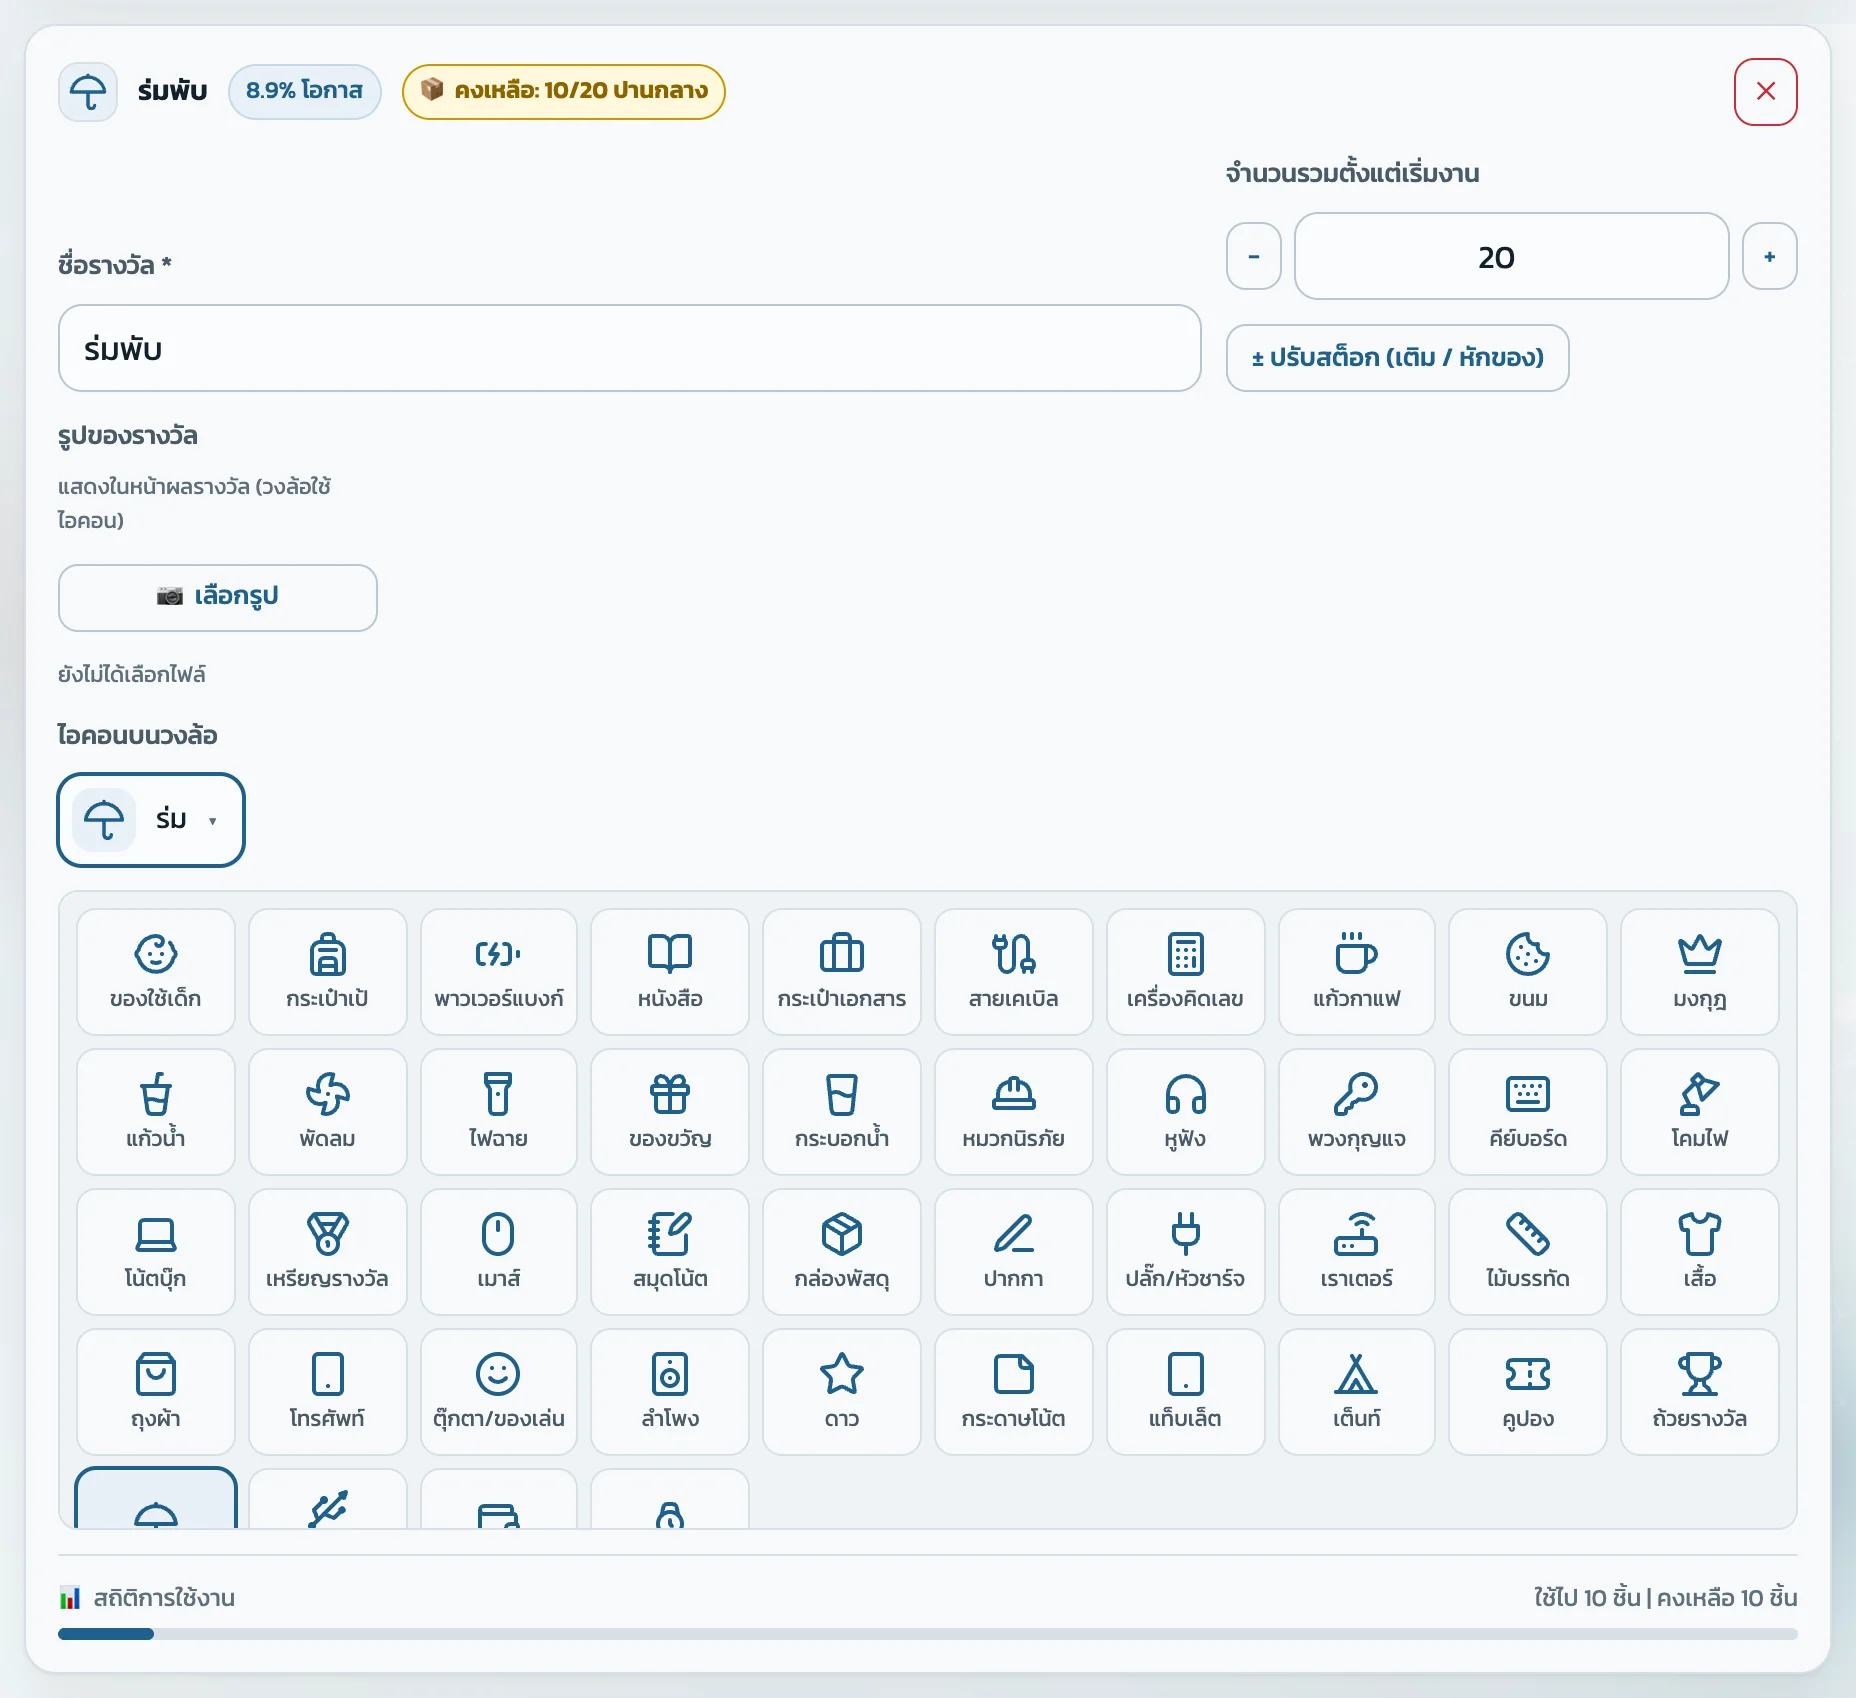
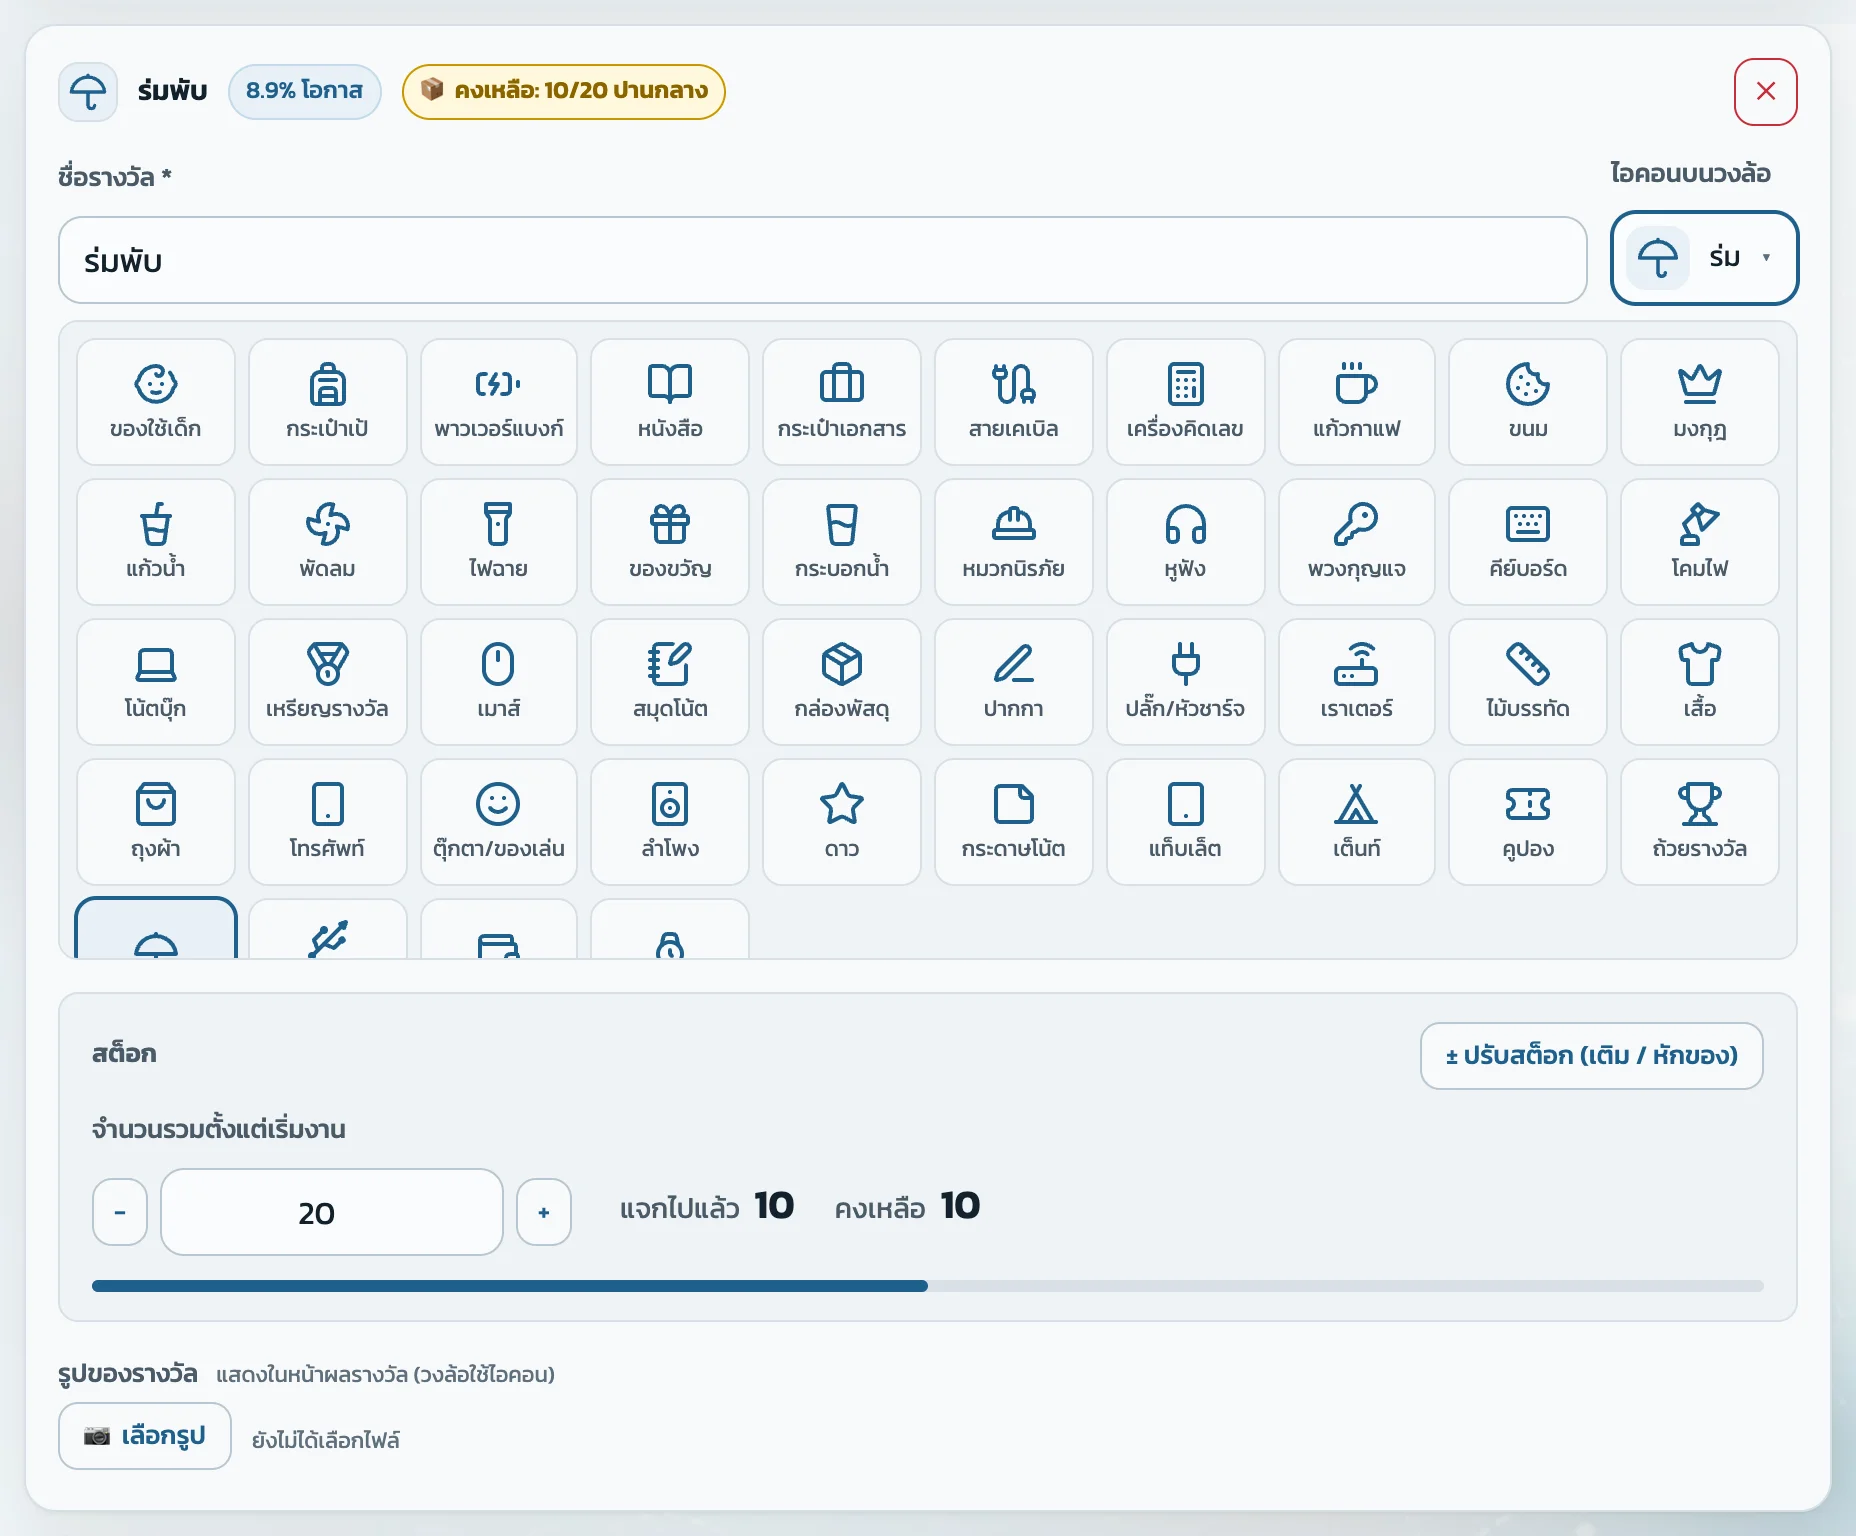
Admin prize card: group fields into basics, stock box and photo row
Name and icon share one row; quantity, given-out/left figures, the usage bar
and the stock-adjust panel live in one stock box; the photo controls sit on
one line. The usage bar now shows this prize's own share instead of a share
of all prizes. Guide screenshots refreshed.

diff --git a/admin.html b/admin.html
@@ -311,11 +311,30 @@
 
     #add-prize-btn.at-cap { opacity: 0.5; }
 
-    .stock-adjust-btn { margin-top: 8px; align-self: flex-start; }
-    .stock-adjust {
-      margin-top: 12px; padding: 14px; border-radius: var(--radius-sm);
+    /* Prize card: basics row (name + icon), stock box, photo row */
+    .prize-basics {
+      display: grid; grid-template-columns: minmax(0, 1fr) auto; gap: 12px; align-items: end;
+    }
+    .prize-basics .icon-select-btn { min-height: 46px; }
+    .stock-box {
+      margin-top: 16px; padding: 14px 16px; border-radius: var(--radius-sm);
       background: var(--surface2); border: 1px solid var(--border);
     }
+    .stock-box-head { display: flex; align-items: center; justify-content: space-between; gap: 8px; margin-bottom: 10px; }
+    .section-label { font-size: 13px; font-weight: 600; color: var(--text-2); }
+    .stock-box-body { display: flex; align-items: flex-end; gap: 12px 24px; flex-wrap: wrap; }
+    .stock-total { flex: 0 1 240px; }
+    .stock-figures { display: flex; gap: 20px; padding-bottom: 10px; font-size: 14px; color: var(--text-2); }
+    .stock-figures b { font-size: 20px; font-weight: 600; color: var(--text); margin-left: 4px; font-variant-numeric: tabular-nums; }
+    .stock-box .prob-bar-track { margin-top: 12px; }
+    .stock-adjust {
+      margin-top: 14px; padding: 14px; border-radius: var(--radius-sm);
+      background: var(--surface); border: 1px solid var(--border);
+    }
+    .photo-row { margin-top: 16px; }
+    .photo-row label .prize-image-field-caption { display: inline; margin: 0 0 0 6px; font-weight: 400; }
+    .photo-controls { display: flex; align-items: center; gap: 10px; flex-wrap: wrap; }
+    .photo-controls .prize-image-filename { margin: 0; }
     .stock-adjust[hidden] { display: none; }
     .stock-adjust-modes { display: grid; grid-template-columns: 1fr 1fr; gap: 8px; }
     .stock-mode {
@@ -483,7 +502,8 @@
 
     @media (max-width: 480px) {
       .field-grid-4 { grid-template-columns: 1fr; }
-      .prize-grid { grid-template-columns: 1fr; }
+      .prize-grid, .prize-basics { grid-template-columns: 1fr; }
+      .prize-basics .icon-select-btn { justify-self: start; }
       .section-body { padding: 16px; }
     }
 
@@ -1588,6 +1608,14 @@ function startAutoRefresh() {
 // ══════════════════════════════════════════════════════════
 //  PRIZES
 // ══════════════════════════════════════════════════════════
+// Stock box figures: given out / left, and the bar's share of this prize's own total
+function stockFigures(used, remaining) {
+  return `<span>แจกไปแล้ว <b>${used}</b></span><span>คงเหลือ <b>${remaining}</b></span>`;
+}
+function usedPct(used, quantity) {
+  return quantity > 0 ? Math.min(100, (used / quantity) * 100) : 0;
+}
+
 function renderPrizes() {
   const stats = prizeStats(state.prizes, state.used);
   const totalInitial = stats.totals.quantity;
@@ -1639,78 +1667,75 @@ function renderPrizes() {
         <button class="btn btn-danger btn-sm btn-icon" onclick="removePrize(${i})">✕</button>
       </div>
 
-      <div class="prize-grid">
+      <div class="prize-basics">
         <div class="form-group">
           <label>ชื่อรางวัล *</label>
           <input type="text" value="${esc(p.label)}" placeholder="ชื่อของรางวัล"
             oninput="setPrize(${i},'label',this.value)" />
         </div>
         <div class="form-group">
-          <label>จำนวนรวมตั้งแต่เริ่มงาน</label>
-          <div class="qty-stepper">
-            <button class="btn btn-outline btn-sm btn-icon" onclick="stepQty(${i},-1)">−</button>
-            <input type="number" value="${p.quantity}" min="${used}" max="9999"
-              oninput="setPrize(${i},'quantity',+this.value)" />
-            <button class="btn btn-outline btn-sm btn-icon" onclick="stepQty(${i},1)">+</button>
-          </div>
-          <button type="button" class="btn btn-outline btn-sm stock-adjust-btn" aria-expanded="false"
+          <label>ไอคอนบนวงล้อ</label>
+          <button type="button" class="icon-select-btn" aria-expanded="false" aria-controls="icon-picker-${i}"
+            onclick="toggleIconPicker(${i}, this)">
+            <span class="icon-select-preview">${iconSvg(selectedIcon, '#1f5f8b', 22)}</span>
+            <span>${PRIZE_ICON_LABELS[selectedIcon]}</span>
+            <span class="icon-select-caret" aria-hidden="true">▾</span>
+          </button>
+        </div>
+      </div>
+      <div class="icon-picker" id="icon-picker-${i}" hidden>${iconButtons}</div>
+
+      <div class="stock-box">
+        <div class="stock-box-head">
+          <span class="section-label">สต็อก</span>
+          <button type="button" class="btn btn-outline btn-sm" aria-expanded="false"
             aria-controls="stock-adjust-${i}" onclick="toggleStockAdjust(${i})">± ปรับสต็อก (เติม / หักของ)</button>
         </div>
+        <div class="stock-box-body">
+          <div class="form-group stock-total">
+            <label>จำนวนรวมตั้งแต่เริ่มงาน</label>
+            <div class="qty-stepper">
+              <button class="btn btn-outline btn-sm btn-icon" onclick="stepQty(${i},-1)" aria-label="ลด 1">−</button>
+              <input type="number" value="${p.quantity}" min="${used}" max="9999"
+                oninput="setPrize(${i},'quantity',+this.value)" />
+              <button class="btn btn-outline btn-sm btn-icon" onclick="stepQty(${i},1)" aria-label="เพิ่ม 1">+</button>
+            </div>
+          </div>
+          <div class="stock-figures prob-bar-usage">${stockFigures(used, remaining)}</div>
+        </div>
+        <div class="prob-bar-track" aria-hidden="true">
+          <div class="prob-bar-fill" style="width:${usedPct(used, p.quantity)}%;background:${remaining === 0 ? 'var(--danger)' : 'var(--brand)'};"></div>
+        </div>
+
+        <div class="stock-adjust" id="stock-adjust-${i}" hidden>
+          <div class="stock-adjust-modes" role="radiogroup" aria-label="ประเภทการปรับ">
+            <label class="stock-mode"><input type="radio" name="stock-mode-${i}" value="1" checked
+              onchange="previewStock(${i})" /> <span>เติมของ<small>เช่น ของสำหรับวันถัดไป</small></span></label>
+            <label class="stock-mode"><input type="radio" name="stock-mode-${i}" value="-1"
+              onchange="previewStock(${i})" /> <span>หักของ<small>แจกนอกเกม / ของเสีย</small></span></label>
+          </div>
+          <div class="stock-adjust-row">
+            <input type="number" id="stock-amount-${i}" min="1" max="9999" inputmode="numeric"
+              placeholder="จำนวนชิ้น" oninput="previewStock(${i})" />
+            <button type="button" class="btn btn-primary btn-sm" id="stock-apply-${i}" disabled
+              onclick="applyStock(${i})">ยืนยันและบันทึก</button>
+            <button type="button" class="btn btn-outline btn-sm" onclick="toggleStockAdjust(${i})">ยกเลิก</button>
+          </div>
+          <div class="stock-preview" id="stock-preview-${i}" aria-live="polite">คงเหลือตอนนี้ ${remaining} ชิ้น — ใส่จำนวนชิ้นที่จะเติมหรือหัก</div>
+        </div>
       </div>
 
-      <div class="stock-adjust" id="stock-adjust-${i}" hidden>
-        <div class="stock-adjust-modes" role="radiogroup" aria-label="ประเภทการปรับ">
-          <label class="stock-mode"><input type="radio" name="stock-mode-${i}" value="1" checked
-            onchange="previewStock(${i})" /> <span>เติมของ<small>เช่น ของสำหรับวันถัดไป</small></span></label>
-          <label class="stock-mode"><input type="radio" name="stock-mode-${i}" value="-1"
-            onchange="previewStock(${i})" /> <span>หักของ<small>แจกนอกเกม / ของเสีย</small></span></label>
-        </div>
-        <div class="stock-adjust-row">
-          <input type="number" id="stock-amount-${i}" min="1" max="9999" inputmode="numeric"
-            placeholder="จำนวนชิ้น" oninput="previewStock(${i})" />
-          <button type="button" class="btn btn-primary btn-sm" id="stock-apply-${i}" disabled
-            onclick="applyStock(${i})">ยืนยันและบันทึก</button>
-          <button type="button" class="btn btn-outline btn-sm" onclick="toggleStockAdjust(${i})">ยกเลิก</button>
-        </div>
-        <div class="stock-preview" id="stock-preview-${i}" aria-live="polite">คงเหลือตอนนี้ ${remaining} ชิ้น — ใส่จำนวนชิ้นที่จะเติมหรือหัก</div>
-      </div>
-
-      <div style="display:flex;gap:12px;margin-top:12px;align-items:end;flex-wrap:wrap;">
-        <div class="form-group" style="flex:0 0 160px;">
-          <label>รูปของรางวัล</label>
-          <span class="prize-image-field-caption">แสดงในหน้าผลรางวัล (วงล้อใช้ไอคอน)</span>
-
+      <div class="photo-row">
+        <label>รูปของรางวัล <span class="prize-image-field-caption">แสดงในหน้าผลรางวัล (วงล้อใช้ไอคอน)</span></label>
+        <div class="photo-controls">
           ${p.imagePath
-            ? `<div style="margin-bottom:8px;"><img src="${esc(supabase.storage.from(PRIZE_IMAGE_BUCKET).getPublicUrl(p.imagePath).data.publicUrl)}" class="prize-image-thumb" alt="" /></div>`
+            ? `<img src="${esc(supabase.storage.from(PRIZE_IMAGE_BUCKET).getPublicUrl(p.imagePath).data.publicUrl)}" class="prize-image-thumb" alt="" />`
             : ''}
-
           <input type="file" accept="image/*" id="prize-image-input-${i}" class="prize-image-input-hidden"
             onchange="handlePrizeImageSelect(${i}, this); document.getElementById('prize-image-filename-${i}').textContent = this.files[0] ? this.files[0].name : 'ยังไม่ได้เลือกไฟล์';" />
           <label class="btn btn-outline btn-sm" for="prize-image-input-${i}">📷 เลือกรูป</label>
-          <span class="prize-image-filename" id="prize-image-filename-${i}">ยังไม่ได้เลือกไฟล์</span>
-
-          ${p.imagePath ? `<div><button class="btn btn-outline btn-sm" style="margin-top:8px;" onclick="removePrizeImage(${i})">ลบรูป</button></div>` : ''}
-        </div>
-      </div>
-
-      <div class="form-group" style="margin-top:12px;">
-        <label>ไอคอนบนวงล้อ</label>
-        <button type="button" class="icon-select-btn" aria-expanded="false" aria-controls="icon-picker-${i}"
-          onclick="toggleIconPicker(${i}, this)">
-          <span class="icon-select-preview">${iconSvg(selectedIcon, '#1f5f8b', 22)}</span>
-          <span>${PRIZE_ICON_LABELS[selectedIcon]}</span>
-          <span class="icon-select-caret" aria-hidden="true">▾</span>
-        </button>
-        <div class="icon-picker" id="icon-picker-${i}" hidden>${iconButtons}</div>
-      </div>
-
-      <div class="prob-bar-wrap">
-        <div class="prob-bar-label">
-          <span>📊 สถิติการใช้งาน</span>
-          <span class="prob-bar-usage">ใช้ไป ${used} ชิ้น | คงเหลือ ${remaining} ชิ้น</span>
-        </div>
-        <div class="prob-bar-track">
-          <div class="prob-bar-fill" style="width:${totalInitial > 0 ? (used/totalInitial)*100 : 0}%;background:${remaining === 0 ? 'var(--danger)' : 'var(--brand)'};"></div>
+          ${p.imagePath ? `<button class="btn btn-outline btn-sm" onclick="removePrizeImage(${i})">ลบรูป</button>` : ''}
+          <span class="prize-image-filename" id="prize-image-filename-${i}">${p.imagePath ? '' : 'ยังไม่ได้เลือกไฟล์'}</span>
         </div>
       </div>
     `;
@@ -1748,9 +1773,9 @@ function updatePrizeCardStats() {
     const badge = card.querySelector('.stock-badge');
     badge.className = `stock-badge ${stockClass}`;
     badge.textContent = `📦 คงเหลือ: ${remaining}/${p.quantity} ${stockText}`;
-    card.querySelector('.prob-bar-usage').textContent = `ใช้ไป ${used} ชิ้น | คงเหลือ ${remaining} ชิ้น`;
+    card.querySelector('.prob-bar-usage').innerHTML = stockFigures(used, remaining);
     const fill = card.querySelector('.prob-bar-fill');
-    fill.style.width = `${totalInitial > 0 ? (used / totalInitial) * 100 : 0}%`;
+    fill.style.width = `${usedPct(used, p.quantity)}%`;
     fill.style.background = remaining === 0 ? 'var(--danger)' : 'var(--brand)';
   });
 }
